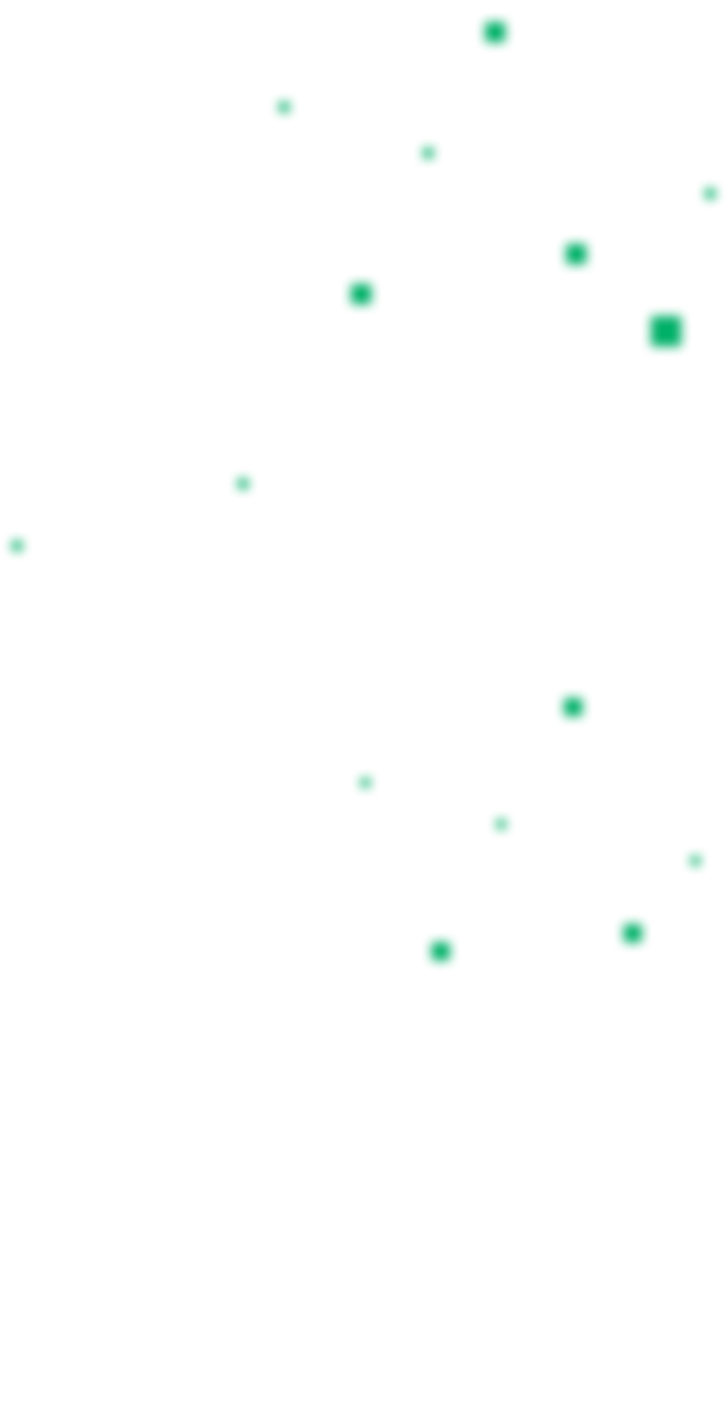
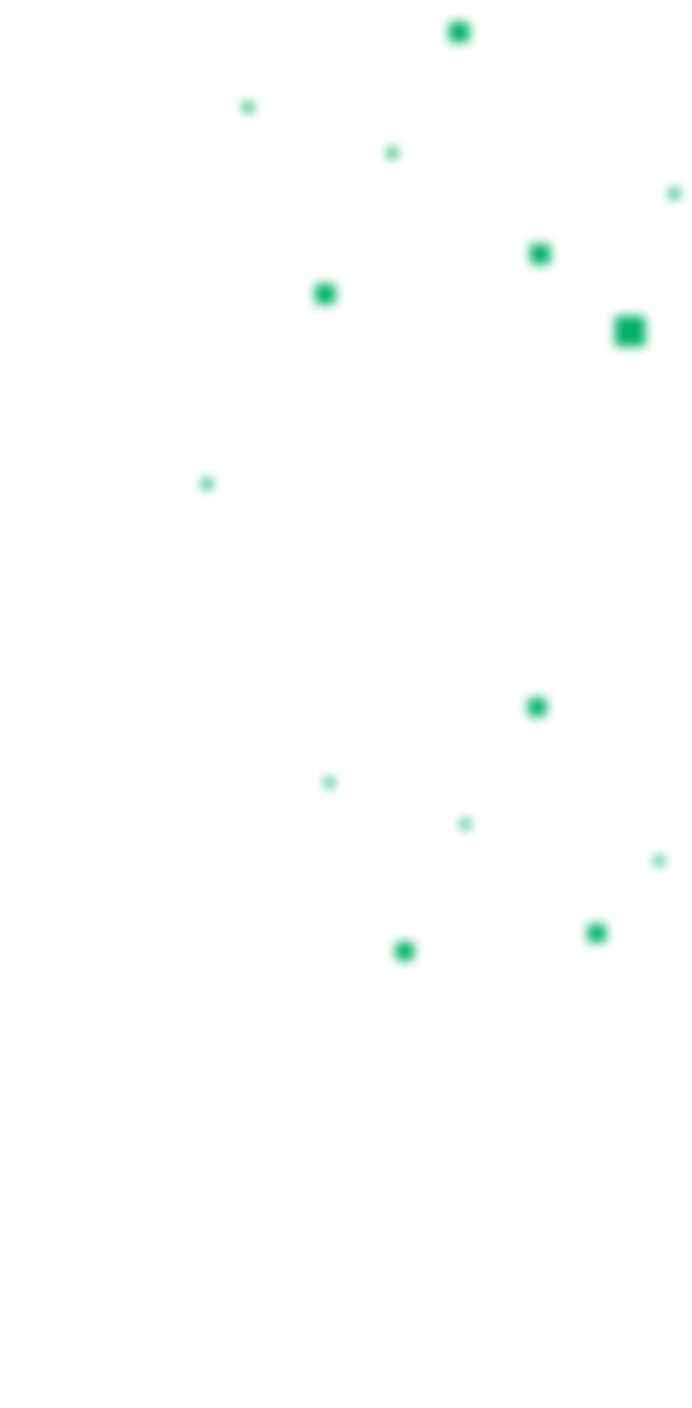
fix-hero-section

diff --git a/src/partials/hero.html b/src/partials/hero.html
@@ -1,6 +1,6 @@
 <section class="hero" id="hero">
   <div class="container hero-container">
-    <div class="hero-container-bg">
+    
       <div class="hero-title-wrap">
         <h1 class="hero-title">Hello, I am<br><span class="hero-title-green">Fullstack developer</span></h1>
         <picture>
@@ -40,21 +40,21 @@
         
         <p class="hero-info">I work with people all over the world to create <span class="hero-info-greeen">impressive</span> and <span class="hero-info-greeen">functional websites</span> that reflect each client's unique personality. </p>
       </div>
-    </div>
+
   </div>
   <div class="hero-soc-list-wrap">
     <ul class="hero-soc-list">
       <li class="hero-soc-item">
-        <a class="hero-soc-link" href="https://www.instagram.com/goitclub/" target="blank">Instagram</a>
+        <a class="hero-soc-link" href="https://www.instagram.com/goitclub/" target="blank" rel="noopener noreferrer nofollow">Instagram</a>
       </li>
       <li class="hero-soc-item">
-        <a class="hero-soc-link" href="https://www.facebook.com/goITclub/" target="blank">Facebook</a>
+        <a class="hero-soc-link" href="https://www.facebook.com/goITclub/" target="blank" rel="noopener noreferrer nofollow">Facebook</a>
       </li>
       <li class="hero-soc-item">
-        <a class="hero-soc-link" href="https://www.linkedin.com/school/goit-start-your-career-in-it" target="blank">Linkedin</a>
+        <a class="hero-soc-link" href="https://www.linkedin.com/school/goit-start-your-career-in-it" target="blank" rel="noopener noreferrer nofollow">Linkedin</a>
       </li>
       <li class="hero-soc-item">
-        <a class="hero-soc-link" href="https://github.com/zolegov/techtitans" target="blank">GitHub</a>
+        <a class="hero-soc-link" href="https://github.com/zolegov/techtitans" target="blank" rel="noopener noreferrer nofollow">GitHub</a>
       </li>
     </ul>
   </div>

diff --git a/src/css/hero.css b/src/css/hero.css
@@ -6,7 +6,9 @@
   padding-bottom: 72px;
   background-image: url(../img/hero/hero-decor-bg-mob.webp);
   background-repeat: no-repeat;
-  background-position: top center;
+  background-size: 320px 704px;
+  background-position-y: 16px;
+  background-position-x: 20px;
 }
 
 @supports (background-image: url(../img/hero/hero-decor-bg-mob.webp)) {
@@ -98,7 +100,7 @@
   top: 0;
   left: 155px;
   cursor: pointer;
-  transition: background-color 250ms cubic-bezier(0.4, 0, 0.2, 1);
+  transition: background-color 300ms ease;
 }
 
 .hero-decor-rectangle:hover{
@@ -119,7 +121,6 @@
 }
 
 .hero-soc-list-wrap{
-  max-width: 360px;
   margin: 0 auto;
   padding: 0;
   background-color: #E4E5E6;
@@ -150,7 +151,9 @@
     padding-bottom: 0;
     background-image: url(../img/hero/hero-decor-bg-tab.webp);
     background-repeat: no-repeat;
-    background-position: top center;
+    background-size: 704px 896px;
+    background-position-y: 13px;
+    background-position-x: 34px;
   }
 
   @supports (background-image: url(../img/hero/hero-decor-bg-tab.webp)) {
@@ -220,10 +223,6 @@
     letter-spacing: 0.025em;
   }
 
-  .hero-soc-list-wrap{
-    max-width: 768px;
-  }
-
   .hero-soc-list {
     display: flex;
     flex-direction: row;
@@ -250,7 +249,9 @@
     padding-bottom: 0;
     background-image: url(../img/hero/hero-decor-bg-desk.webp);
     background-repeat: no-repeat;
-    background-position: top center;
+    background-size: 1216px 772px;
+    background-position-y: 16px;
+    background-position-x: 32px;
   }
 
 @supports (background-image: url(../img/hero/hero-decor-bg-desk.webp)) {
@@ -329,9 +330,5 @@
     padding-bottom: 0;
     width: 592px;
     letter-spacing: 0.027em;
-  }
-
-  .hero-soc-list-wrap{
-    max-width: 1280px;
   }
 }
